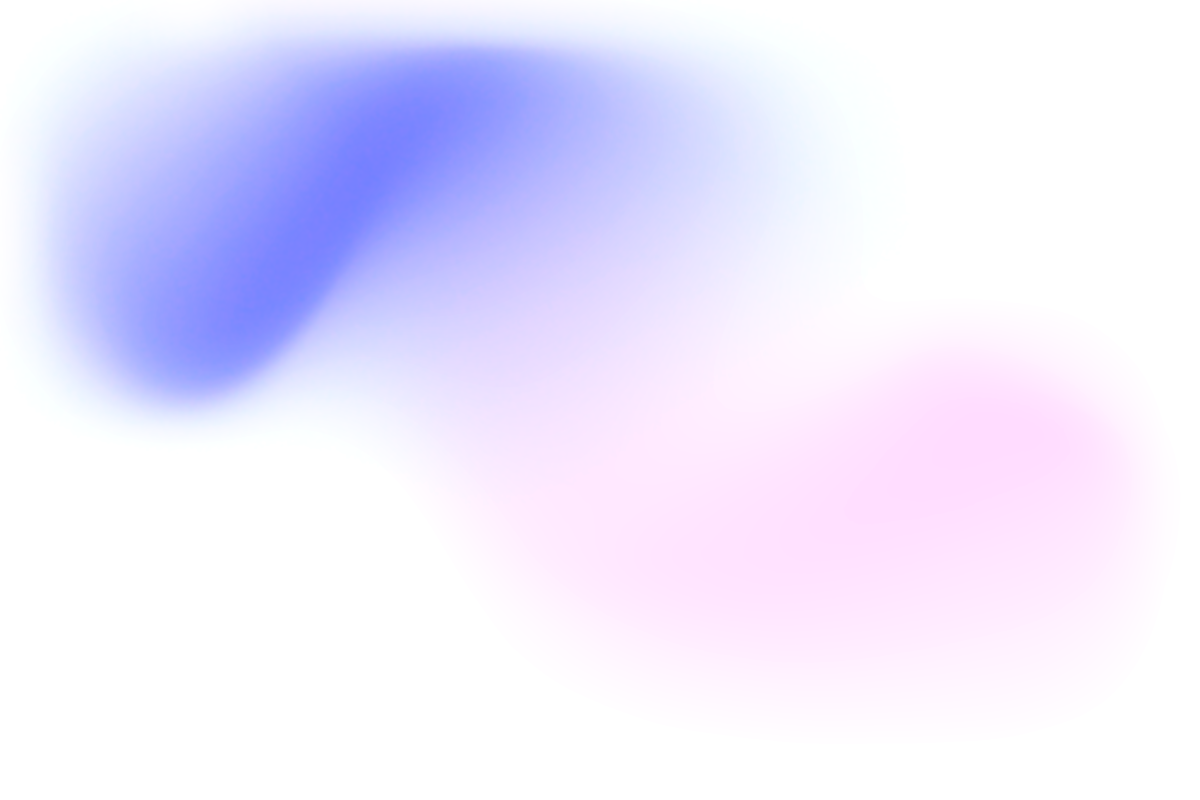
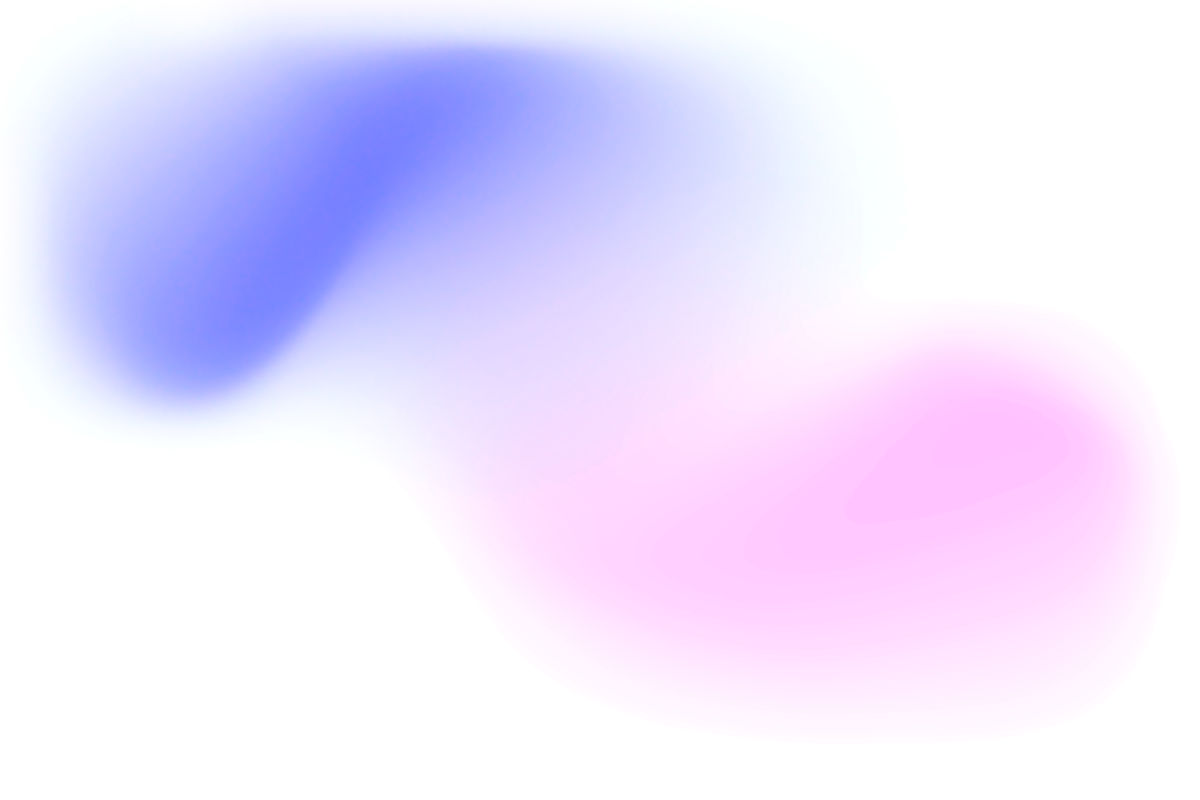
hover effect

Changed region(s): [[0.6783, 0.4688, 0.8942, 0.6562]]

diff --git a/app/InnerLayout.tsx b/app/InnerLayout.tsx
@@ -1,9 +1,15 @@
 import './tailwind.css'
 // import '@fortawesome/fontawesome-free/css/all.min.css'
+
+// pattern.width = 1200px
+// pattern.hight = 800px
 import pattern from '@/public/img/shades.png'
-import { ReactNode } from 'react'
+// import selector from '@/public/img/selector.png'
+import selector from '@/public/img/selector-dev.png'
+import React, { lazy, ReactNode } from 'react'
 import Separator from '@/components/Separator'
 import Button from '@/components/Button'
+import HoverEffect from '@/components/HoverEffect'
 
 interface Props {
   children: React.ReactNode
@@ -31,26 +37,21 @@ function Noise() {
 
 function GradientBlur({ inverted = false }: { inverted?: boolean }) {
   return (
-    <div
-      // this isolate is to create a stacking context
-      // so mix-blend-difference of the img tag apply on the div.bg-white
-      // otherwise it will be applied within some stacking context created outside
-      // the boundary of this component
-      className="isolate relative"
-    >
+    <div className="isolate relative">
       <img
-        // z-1 in relative to the white background div below
-        // in dark mode this tag will blend-difference with the white div below (i.e. invert colors)
         className={`z-1 relative max-w-none w-[1200px] ${
           inverted ? 'mix-blend-difference' : ''
         }`}
-        // in addition this image doesn't scale with its container
         alt="background-pattern"
         loading="lazy"
-        // pattern.width = 1200px
-        // pattern.hight = 800px
         src={pattern.src}
       />
+      <g
+        className="z-2 absolute top-0"
+        style={{ mixBlendMode: inverted ? 'overlay' : 'multiply' }}
+      >
+        <HoverEffect inverted={inverted} />
+      </g>
       <div className="bg-white absolute top-0 w-full h-full"></div>
     </div>
   )

diff --git a/components/HoverEffect.tsx b/components/HoverEffect.tsx
@@ -1,0 +1,40 @@
+'use client'
+
+import selector from '@/public/img/selector.png'
+import pattern from '@/public/img/shades.png'
+import s from './HoverEffect.module.scss'
+import { useEffect, useRef, useState } from 'react'
+
+export default function Compt({ inverted = false }: { inverted?: boolean }) {
+  // const { x, y, ref } = useMouse()
+  const [{ x, y }, setCoor] = useState({ x: 0, y: 0 })
+  const ref = useRef()
+  useEffect(() => {
+    // todo: improve at https://stackoverflow.com/questions/7790725/javascript-track-mouse-position
+    function mouseMove(event) {
+      // @ts-ignore
+      const { x, y } = ref?.current?.getBoundingClientRect()
+      setCoor({ x: event.clientX - x, y: event.clientY - y })
+    }
+
+    if (typeof window !== 'undefined') {
+      window.addEventListener('mousemove', mouseMove)
+    }
+
+    return () => window.removeEventListener('mousemove', mouseMove)
+  })
+
+  return (
+    <img
+      ref={ref}
+      style={{
+        // @ts-ignore
+        ['--src']: `url(${selector.src})`,
+        ['--x']: `${x - 517}px`,
+        ['--y']: `${y - 517}px`,
+      }}
+      className={`${inverted ? 'mix-blend-overlay' : ''} ${s.base}`}
+      src={pattern.src}
+    />
+  )
+}

diff --git a/components/HoverEffect.module.scss b/components/HoverEffect.module.scss
@@ -1,0 +1,7 @@
+.base{
+  mask: var(--src);
+  // mask-mode: alpha;
+  mask-position: var(--x) var(--y);
+  mask-repeat: no-repeat;
+
+}
